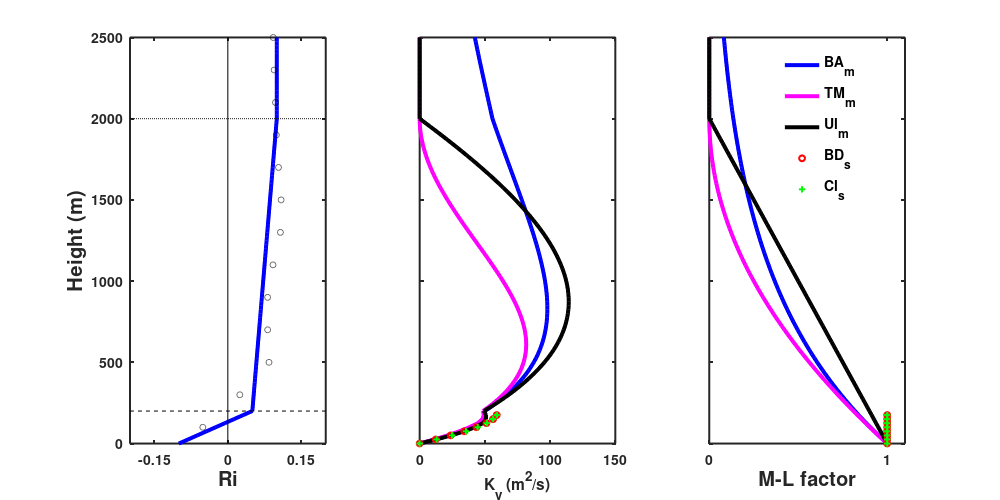
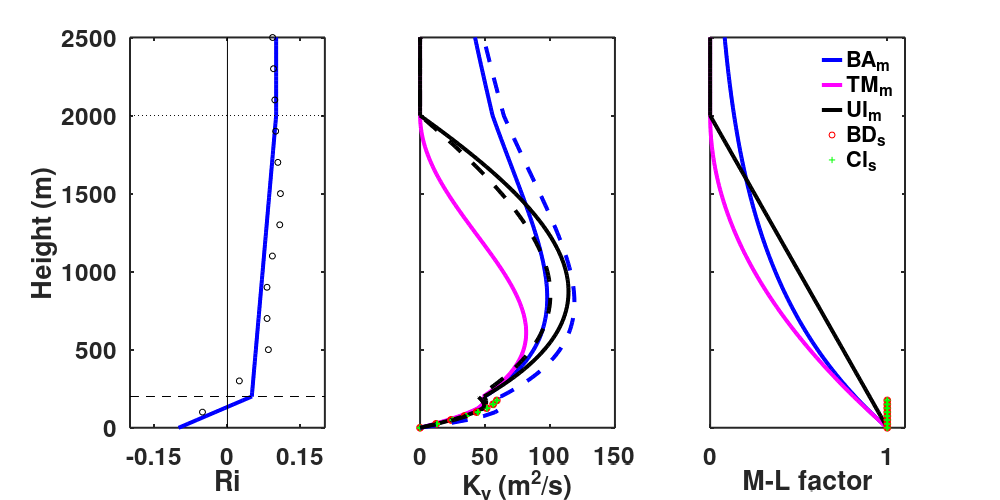
A bit more on the VarDiff chapter.

diff --git a/Chapters/Ash3d_Doc_UG_Apx_VarDiff.tex b/Chapters/Ash3d_Doc_UG_Apx_VarDiff.tex
@@ -212,7 +212,7 @@ and the temperature difference between the inversion base and top
 is $\Delta \theta > 2 \, \mathrm{K}$.
 
 If there is no capping inversion layer resolved by the NWP data, then this method
-will flag the tropopause as the ABL height.
+will incorrectly flag the tropopause as the ABL height.
 
 An alternative method is to use the thickness of the Ekman layer as the ABL height.
 This method works for neutral or stable atmospheric conditions. The Ekman layer is
@@ -234,7 +234,7 @@ where $c_s=0.4$.
 
 Finally, a third approach uses $\mathrm{Ri}_g$. The ABL height is identified as the
 lowest point where the Richardson number exceeds a threshold value, typically $\mathrm{Ri}_c=$ 0.25 to
-0.5.
+0.5. The value for $\mathrm{Ri}_c=$ is set in the Ash3d control file.
 
 %%%%%%%%%%%%%%%%%%%%%%%%%%%%%%%%%%%%%%%%%%%%%%%%%%%%%%%%%%%%%%%%%%%%%%%%%%%%%%%
 \subsection{Tropopause}
@@ -244,22 +244,6 @@ Since there are occasional temperature inversion layers in the lower troposphere
 that cap the atmospheric boundary layer,
 the lowest point greater then 5 $\mathrm{km}$ with $\Gamma<0$ is marked as the
 height of the tropopause.
-
-
-
-
-%The basic
-%structure of the block consists of three input lines:
-%\small
-%\begin{verbatim}
-%yes 1                       # use horizontal variable diffusivity; model ID
-%yes                         # use vertical variable diffusivity
-%0.9                         # KH_SmagC
-%0.4                         # vonKarman
-%30.0                        # LambdaC
-%0.25                        # RI_CRIT
-%\end{verbatim}
-%\normalsize
 
 %%%%%%%%%%%%%%%%%%%%%%%%%%%%%%%%%%%%%%%%%%%%%%%%%%%%%%%%%%%%%%%%%%%%%%%%%%%%%%%
 %%%%%%%%%%%%%%%%%%%%%%%%%%%%%%%%%%%%%%%%%%%%%%%%%%%%%%%%%%%%%%%%%%%%%%%%%%%%%%%
@@ -326,7 +310,8 @@ A widely used expression for the mixing length suggensted by Blackadar, $\ell_m$
 \begin{equation}\label{VarDiff_Eq_MixLen}
 \frac{1}{\ell_m} = \frac{1}{\kappa z} + \frac{1}{\lambda_m}
 \end{equation}
-which reduces $\ell_m$ near the surface from the free-atmosphere mixing length, $\lambda_m$. Typical
+which transitions $\ell_m$ from the near the surface where it is proportional to $z$
+to the free-atmosphere mixing length, $\lambda_m$. Typical
 values for $\lambda_m$ are 30-150 $\mathrm{m}$, which can be specified in the Ash3d control file.
 
 %\begin{equation}
@@ -353,7 +338,8 @@ by Louis \cite{Louis1979} and is given by:
 \end{eqnarray}
 with $b =$ 4.7, $c=7.4 a^2b \left( \frac{z}{z_0} \right)^{1/2}$ and $a=\kappa \left(\ln{\frac{z}{z_0}} \right)^{-1}$.
 
-A simplified form given in \cite{Jacobson2005,Stull1988} which relies on a specified $\mathrm{Ri}_c$, is given by:
+A simplified form given by Stull in \cite{Jacobson2005,Stull1988} which relies on a
+specified $\mathrm{Ri}_c$, is given by:
 \begin{eqnarray}\label{VarDiff_Eq_F_Stull}
 \mathcal{F}(\mathrm{Ri}) &=& \left\{ \begin{array} {l@{\quad \quad}l}
  \left[ 1 -18 \, \mathrm{Ri} \right]^{1/2}           &: \mathrm{if}\,\,\, \mathrm{Ri} < 0 \,\,\, \mathrm{unstable} \\
@@ -363,7 +349,7 @@ A simplified form given in \cite{Jacobson2005,Stull1988} which relies on a speci
 \right.
 \end{eqnarray}
 
-One proposed by \cite{Betts1996} and used with the NCEP-NCAR Reanalysis model is given by:
+One proposed by Betts \cite{Betts1996} and used with the NCEP-NCAR Reanalysis model is given by:
 \begin{eqnarray}\label{VarDiff_Eq_F_Betts}
 \mathcal{F}(\mathrm{Ri}) &=& \left\{ \begin{array} {l@{\quad \quad}l}
  1 + 8 \left( \frac{- \mathrm{Ri}}{1+1.286 \, \sqrt{\left| \mathrm{Ri}\right|}} \right)  &: \mathrm{if}\,\,\, \mathrm{Ri} < 0 \,\,\, \mathrm{unstable} \\
@@ -436,7 +422,7 @@ B  + \beta \zeta                         &:  \mathrm{if}\,\,\, \zeta > 0 \,\,\, 
 
 For momentum exchange, $B=1$, but there is an analogous expression for heat exhange ($\phi_h$)
 in which $B$ is replaced by the Prandtl number, $\mathrm{Pr}$.
-Frequently used values of coefficients for $\phi_m$ are given below.
+Frequently used values of coefficients for $\phi_m$ are given in Table \ref{Tab_VarDiff_phisurf}.
 \small
 \begin{table}[htbp]
 \begin{center}
@@ -486,7 +472,11 @@ This equation is not valid above the ABL.
 
 In both forms above, the general expression for $\phi_m(\zeta)$ given in Eq. \ref{VarDiff_Eq_PhiB}
 can be used, but the coefficients should be modified to account for the deviation in the
-surface layer due to the scaling term.
+surface layer due to the scaling term. Figure \ref{FigVarDiff_Kv_MixingLayer} shows the resulting
+$K_v$ from a hypothetical (but realistic) weakly unstable $\mathrm{Ri}$ profile using the expressions
+given in Table \ref{tab:VarDiff_Kz_coeffABL}. Diffusivities calculated from the heat-exchange 
+function, $\phi_h$, are also given since some studies \ref{Ulke2000} of the diffusion of pollutants
+have found that $\phi_h$ is the more appropriate form.
 
 \small
 \begin{table}[htbp]
@@ -513,7 +503,16 @@ Ulke (2000)          \cite{Ulke2000}     & m & 1.0 & -1/4 & 6.9 & -22.0 & 1 \\
 \begin{figure}[htbp]\vspace*{0cm}\hspace*{0cm}
 \includegraphics[angle=0,scale=0.5]{Figures/Apx_VarDiff/Kv_ML.png}
 \parbox{15cm}{\caption{\label{FigVarDiff_Kv_MixingLayer}
-Vertical diffusivity in the mixed layer using expressions in Table \ref{VarDiff_Kz_coeffABL}.
+Vertical diffusivity in the mixed layer using expressions in Table \ref{tab:VarDiff_Kz_coeffABL} for
+$\phi_m$.
+Surface layer only expressions are plotted using values from Table \ref{Tab_VarDiff_phisurf}. On the left,
+a hypothetical profile of $\mathrm{Ri}$ is plotted for slightly unstable conditions with $u_* = 1.0 \, \mathrm{m/s}$
+and $h_{ABL} = 2000 \, \mathrm{m}$. Also plotted is a profile extracted from unstable conditions near
+Shishaldin Volcano on May 9, 2025. The ABL and the surface layer are marked by thin dotted and dashed lines
+respectively. The middle plot shows the calculated $K_v$ from each of the stability functions tabulated
+in Table \ref{tab:VarDiff_Kz_coeffABL}. Solid lines are for $\phi_m$ and dashed lines are using $\phi_h$.
+The right plot shows the taper functions; exponential for the Businger-Ayer model, linear ($p=1$) taper for
+the Troen-Mahrt model, and a quadratic ($p=2$) for the Ulke et al. model.
 }}
 \end{figure}
 
@@ -524,6 +523,61 @@ Vertical diffusivity in the mixed layer using expressions in Table \ref{VarDiff_
 
 \section{Ash3d control file optional module block format}\label{ChapAppendVarDiff_SecContrlBlock}
 %%%%%%%%%%%%%%%%%%%%%%%%%%%%%%%%%%%%%%%%%%%%%%%%%%%%%%%%%%%%%%%%%%%%%%%%%%%%%%%
+The block of the Ash3d control file that specifies the variable diffusivity parameters
+consists of the obligatory \texttt{OPTMOD=VARDIFF} line followed by 7 content lines.
+
+Line 1 includes the specification for horizontal diffusivity. The first 3 characters of Line 1
+indicate if horizontal diffivity is to be used or not and must be either
+\texttt{yes} or \texttt{no}. 
+If \texttt{no}, the horizontal diffusivity is turned off entirely.
+If \texttt{yes}, then two more variables are read from Line 1,
+an integer specifying the horizontal diffusivity model (\texttt{Kh\_model\_ID}),
+followed by a floating-point number defining the model.
+If \texttt{Kh\_model\_ID} is 1, then a the horizontal diffusivity is a constant with the
+constant given as argument 3 of the line.
+If \texttt{Kh\_model\_ID} is 2, then the model of Smagorinsky is used given by Eq. \ref{VarDiff_Eq_Smag}
+with the parameter $C$ given in argument 3.
+If \texttt{Kh\_model\_ID} is 3, then the model of Pielke is used given by Eq. \ref{VarDiff_Eq_Pielke}
+also with the parameter $C$ given in argument 3.
+
+Line 2 indicates whether or not vertical diffusivity is to be used.
+Again, the first 3 characters of Line 2 must be either \texttt{yes} or \texttt{no}.
+If \texttt{no}, the vertical diffusivity is turned off and the remaining lines of the
+block are ignored.
+If \texttt{yes}, then an integer (\texttt{KvBL\_model\_ID}) from Line 3 is read,
+specifying the boundary layer model.
+If \texttt{KvBL\_model\_ID} = 1, then vertical diffusivity is constant throughout the boundary layer,
+with a diffusivity specified in argument 2 of the line.
+If \texttt{KvBL\_model\_ID} = 2, then no boundary-layer model is used and the vertical diffusivity
+calculated from the free-atmosphere model will be used throught the domain.
+If \texttt{KvBL\_model\_ID} = 3, then the Troen and Mahrt model is used.
+If \texttt{KvBL\_model\_ID} = 4, then the model from Ulke et al. is used, defaulting to the
+momentum equations. If this model is selected, then an optional third integer parameter
+is attempted to be read with 1 indicating the momentum form and 2 indicating the heat form.
+If \texttt{KvBL\_model\_ID} = 5, then the model pf Businger-Ayer. is used, also defaulting
+the the momentum form. For this model as well, an additional interger value is attempted
+to be read specifying momentum or heat.
+There are other studies that suggest different paramters for the stability function that
+are not specifically implemented in Ash3d. If your preferred model follows the general
+form of Eq. \ref{VarDiff_Eq_PhiB}, then you can enter \texttt{KvBL\_model\_ID} = 0 on Line 3,
+followed by four floating point values and an integer, specifying:
+$B$,  $\alpha$,  $\beta$ , $\gamma$ of Eq. \ref{VarDiff_Eq_PhiB}, with the final integer indicating
+the $p$ exponent of Eq. \ref{VarDiff_Eq_Kz_Mixed_Poly}. If $p=0$, then an exponential taper is
+used as in \ref{VarDiff_Eq_Kz_Mixed_Exp}.
+
+Line 4 specifies the free-atmosphere model with an integer \texttt{KvFA\_model\_ID}.
+If \texttt{KvFA\_model\_ID} = 1, then a constant $K_v$ is used with a diffusivity specified
+as argument 2 of Line 4. For the remaining models, only the scaling function, $\mathcal{F}$
+is dinstinguished. If \texttt{KvFA\_model\_ID} = 2, the Louis (1979) model is used.
+For \texttt{KvFA\_model\_ID} = 3, the Stull/Jasobson model is used.
+If \texttt{KvFA\_model\_ID} = 4, Betts (1996).
+If \texttt{KvFA\_model\_ID} = 5, Hong (1996). And for \texttt{KvFA\_model\_ID} = 6,  Collins el al (2006).
+
+Lastly, three additional lines are read, setting the von Karman constant $\kappa$ (Line 5), the free-atmosphere
+mixing length, $\lambda_m$ (Line 6), and the critical Richardson number, $\mathrm{Ri}_c$ (Line7).
+
+An example block is given below, where both horizontal and vertical diffusivities are used; horizontal,
+using the Peilke model and vertical using Ulke (heat) in the boundary layer and Betts in the free-atmosphere.
 
 \footnotesize
 \begin{verbatim}
@@ -531,7 +585,7 @@ Vertical diffusivity in the mixed layer using expressions in Table \ref{VarDiff_
 OPTMOD=VARDIFF
 yes 2 0.2                   # use horizontal variable diffusivity
 yes                         # use vertical variable diffusivity
-5                           # boundary layer model
+4 2                         # boundary layer model
 3                           # free-air model
 0.4                         # vonKarman
 150.0                       # LambdaC
@@ -550,7 +604,7 @@ yes                         # use vertical variable diffusivity
 %Line 3: #  0 1.0 -0.25 5.0 -16.0 0  # BL model 0=cust B alpha beta gamma p (use exp if p=0)
 %        #  1 500.0                  #          1=const value
 %        #  2                        #          2=none (Use Free-air throughout)
-%        #  3 [1,2]                  #          3=Troen and Mahrt    [momentum,heat]
+%        #  3                        #          3=Troen and Mahrt
 %        #  4 [1,2]                  #          4=Ulke               [momentum,heat]
 %        #  5 [1,2]                  #          5=Shir/Businger,Ayer [momentum,heat]
 %Line 4: #  1 500.0         # Free-Air 1=const ; value

diff --git a/Figures/Scripts/VarDiff/plotKv.m b/Figures/Scripts/VarDiff/plotKv.m
@@ -48,7 +48,6 @@ for i=1:nz
   zeta(i) = Ri(i)/(1-5*Ri(i));
  end
 end
-%zeta = z./L;
 
 % Loop over z and calculate Kv
 for i=1:nz
@@ -67,24 +66,32 @@ for i=1:nz
  if zeta(i)<0 % unstable
   p1=1.0;a1=4;c1=16.0;phisrf_BD(i) = p1*(1-c1*zeta(i))^(-1.0/a1);
   p1=1.0;a1=3;c1=15.0;phisrf_Cl(i) = p1*(1-c1*zeta(i))^(-1.0/a1);
-  p1=1.0;a1=4;c1=16.0;phiml_BA(i)  = p1*(1-c1*zeta(i))^(-1.0/a1);
+  p1=1.0;a1=4;c1=16.0;phiml_BA(i)  = p1*(1-c1*zeta(i))^(-1.0/a1); % momentum
   p1=1.0;a1=3;c1= 7.0;phiml_TM(i)  = p1*(1-c1*zeta(i))^(-1.0/a1);
-  %p1=1.0;a1=2;c1=13.0;phiml_Ul(i)  = p1*(1-c1*zeta(i))^(-1.0/a1); % heat
   p1=1.0;a1=4;c1=22.0;phiml_Ul(i)  = p1*(1-c1*zeta(i))^(-1.0/a1); % momentum
+
+  p1=0.74;a1=2;c1=16.0;phiml_BAh(i)= p1*(1-c1*zeta(i))^(-1.0/a1); % heat
+  p1=1.0 ;a1=2;c1=13.0;phiml_Ulh(i)= p1*(1-c1*zeta(i))^(-1.0/a1); % heat
+
  else % stable
   p1=1.0 ;b1=5.0;phisrf_BD(i) = p1 + b1 * zeta(i);
   p1=1.0 ;b1=5.0;phisrf_Cl(i) = p1 + b1 * zeta(i);
   p1=1.0 ;b1=4.7;phiml_BA(i)  = p1 + b1 * zeta(i);
   p1=1.0 ;b1=5.0;phiml_TM(i)  = p1 + b1 * zeta(i);
-  %p1=1.0 ;b1=9.2;phiml_Ul(i)  = p1 + b1 * zeta(i); % heat
   p1=1.0 ;b1=6.9;phiml_Ul(i)  = p1 + b1 * zeta(i); % momentum
+
+  p1=0.74;b1=4.7;phiml_BAh(i) = p1 + b1 * zeta(i); % heat
+  p1=1.0 ;b1=9.2;phiml_Ulh(i) = p1 + b1 * zeta(i); % heat
  end
  % Diffusivity values
- Kv1(i) = ustr*vk*z(i)/phisrf_BD(i) * sc1(i);
- Kv2(i) = ustr*vk*z(i)/phisrf_Cl(i) * sc2(i);
- Kv3(i) = ustr*vk*z(i)/phiml_BA(i)  * sc3(i);
- Kv4(i) = ustr*vk*z(i)/phiml_TM(i)  * sc4(i);
- Kv5(i) = ustr*vk*z(i)/phiml_Ul(i)  * sc5(i);
+ Kv1(i) = ustr*vk*z(i)/phisrf_BD(i) * sc1(i); % Bus-Dy
+ Kv2(i) = ustr*vk*z(i)/phisrf_Cl(i) * sc2(i); % Carl et al
+ Kv3(i) = ustr*vk*z(i)/phiml_BA(i)  * sc3(i); % Bus-Ayer
+ Kv4(i) = ustr*vk*z(i)/phiml_TM(i)  * sc4(i); % Troen-Mahrt
+ Kv5(i) = ustr*vk*z(i)/phiml_Ul(i)  * sc5(i); % Ulke et al
+
+ Kv6(i) = ustr*vk*z(i)/phiml_BAh(i)  * sc3(i); % Bus-Ayer (heat)
+ Kv7(i) = ustr*vk*z(i)/phiml_Ulh(i)  * sc5(i); % Ulke et al (heat)
 end
 
 figure;
@@ -111,6 +118,8 @@ subplot(1,3,2),plot(Kv4(1:nz),z(1:nz),'m-',"linewidth",4);
 subplot(1,3,2),plot(Kv5(1:nz),z(1:nz),'k-',"linewidth",4);
 subplot(1,3,2),plot(Kv1(1:zs),z(1:zs),'ro',"linewidth",2);
 subplot(1,3,2),plot(Kv2(1:zs),z(1:zs),'g+',"linewidth",2);
+subplot(1,3,2),plot(Kv6(1:nz),z(1:nz),'b--',"linewidth",4);
+subplot(1,3,2),plot(Kv7(1:nz),z(1:nz),'k--',"linewidth",4);
 hold off;
 axis([0 150 0 1.25*H])
 set(gca, 'YTickLabel', {});

diff --git a/Chapters/Ash3d_Doc_UG_Apx_FVSolvers.tex b/Chapters/Ash3d_Doc_UG_Apx_FVSolvers.tex
@@ -193,7 +193,7 @@ cell-centered value.  Therefore, calculating \texttt{fs\_I} at interface $I$ req
 cell-centered velocities at $i-2,i-1,i,i+1,i+2$.  Similarly, some limiters also require
 concentrations on these cells.
 
-Lastly, we loop of the cell index $i$ and build the four components of the update:
+Lastly, we loop over the cell index $i$ and build the four components of the update:
 \begin{itemize}
  \item Rightward fluctuation at left boundary = \texttt{RFluct\_Lbound} = $\mathcal{A}^{+} \Delta Q_I$
  \item Leftward fluctuation at right boundary = \texttt{LFluct\_Rbound} = $\mathcal{A}^{-} \Delta Q_{I+1}$
